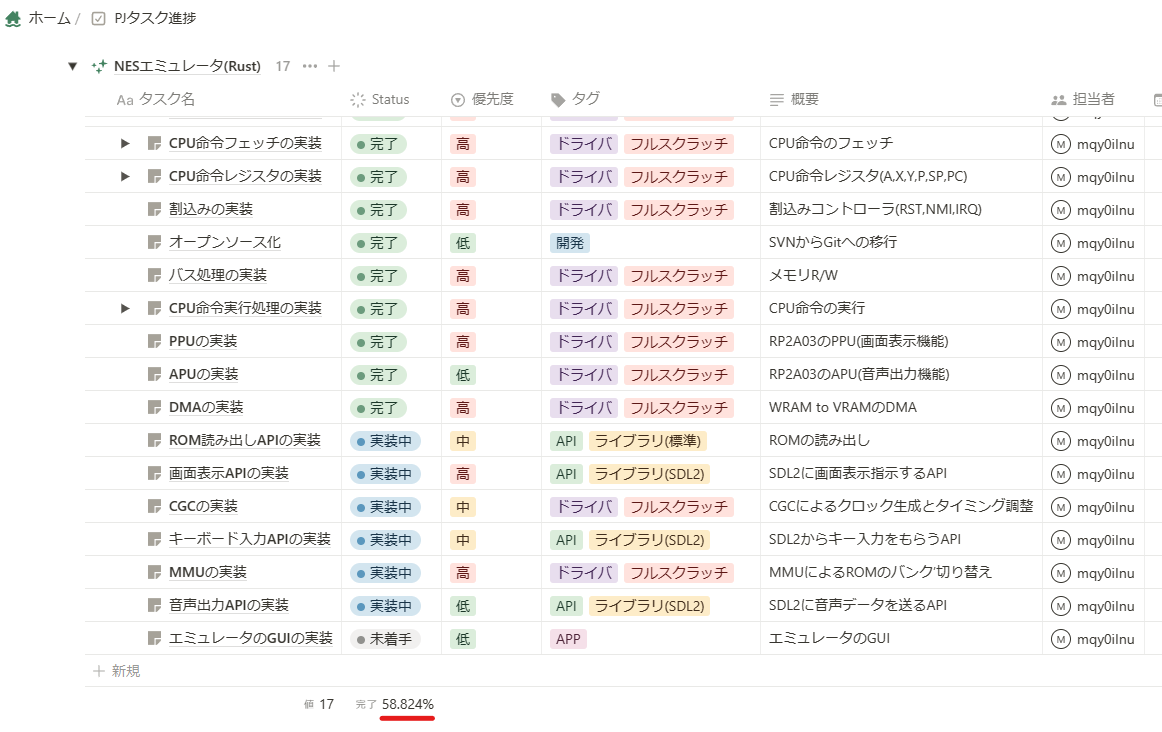
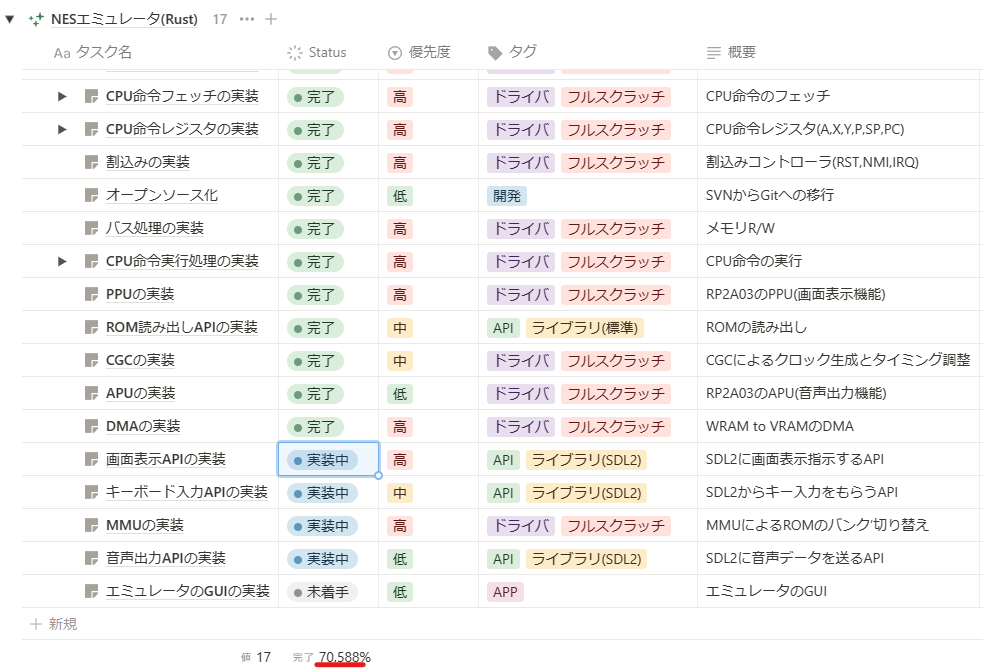
ROMローダー実装

diff --git a/src/cassette.rs b/src/cassette.rs
@@ -1,0 +1,136 @@
+use std::path::Path;
+use std::fs::File;
+use std::io::Read;
+
+#[derive(Debug, PartialEq)]
+#[allow(non_camel_case_types)]
+pub enum Mirroring {
+    VERTICAL,
+    HORIZONTAL,
+    FOUR_SCREEN,
+}
+
+pub const NES_TAG: [u8; 4] = [0x4E, 0x45, 0x53, 0x1A]; // ASCII "NES" + EOF(0x1A)
+pub const PRG_ROM_SIZE: usize = 16 * 1024;             // 16KB
+// pub const PRG_ROM_SIZE: usize = 32 * 1024;          // 32KB
+pub const CHR_ROM_SIZE: usize = 8 * 1024;              // 8KB
+
+pub struct Rom {
+    pub prg_rom: Vec<u8>,
+    pub chr_rom: Vec<u8>,
+    pub mapper: u8,
+    pub screen_mirroring: Mirroring,
+}
+
+impl Rom {
+    pub fn new(raw: &Vec<u8>) -> Result<Rom, String> {
+        let prg_rom_size = raw[4] as usize * PRG_ROM_SIZE;
+        let chr_rom_size = raw[5] as usize * CHR_ROM_SIZE;
+
+        // iNES Check
+        if &raw[0..4] != NES_TAG {
+            panic!("[ERR]: Not iNES Format ROM !!!");
+        }
+        // (DEBUG)
+        if raw.len() < 16 + prg_rom_size + chr_rom_size {
+            panic!("[ERR]: ROM size is larger than the Emu buffer size!!!");
+        }
+
+        let mapper = (raw[6] >> 0x04) | (raw[7] & 0xF0);
+        let four_screen_mirroring  = raw[6] & 0b1000 != 0;
+        let vertical_mirroring = raw[6] & 0b1 != 0;
+        let screen_mirroring =
+            match (four_screen_mirroring , vertical_mirroring) {
+                (true, _) => Mirroring::FOUR_SCREEN,
+                (false, true) => Mirroring::VERTICAL,
+                (false, false) => Mirroring::HORIZONTAL,
+                (_, _) => panic!("[ERR]: But Rom iNES !!!"),
+            };
+
+        let skip_trainer = raw[6] & 0b100 != 0;
+        let prg_rom_start = 16 + if skip_trainer { 512 } else { 0 };
+        let chr_rom_start = prg_rom_start + prg_rom_size;
+
+        // (DEBUG)iNES Header
+        let ines_header = &raw[0..16];
+        println!("[DEBUG]: ROM Read! iNES Header Dump!!!");
+        for byte in ines_header {
+            print!("[{:#04x}]", byte);
+        }
+        println!("\n");
+
+        Ok(Rom {
+            prg_rom: raw[prg_rom_start..(prg_rom_start + prg_rom_size)].to_vec(),
+            chr_rom: raw[chr_rom_start..(chr_rom_start + chr_rom_size)].to_vec(),
+            mapper: mapper,
+            screen_mirroring: screen_mirroring,
+        })
+    }
+
+    pub fn rom_clear() -> Self {
+        return Rom {
+            prg_rom: vec![0; PRG_ROM_SIZE],
+            chr_rom: vec![0; CHR_ROM_SIZE],
+            mapper: 0,
+            screen_mirroring: Mirroring::VERTICAL,
+        };
+    }
+}
+
+pub fn rom_loader(path :&str) -> Rom
+{
+    let mut f = File::open(path).expect("[ERR]: No File Found!!!");
+    let metadata = std::fs::metadata(path).expect("[ERR]: Unable Read Metadata");
+    let mut buffer = vec![0; metadata.len() as usize];
+    f.read(&mut buffer).expect("[ERR]: File Read Buffer OVF");
+    let rom = Rom::new(&buffer).expect("[ERR]: ROM Read ERROR");
+    rom
+}
+
+// ROM info Dump
+pub fn rom_info_dump(path:&str, rom :&Rom)
+{
+    let filename = Path::new(path)
+    .file_name()
+    .and_then(|name| name.to_str())
+    .unwrap_or("");
+
+    println!("*********** [NES ROM Info] ***********");
+    println!("NES File: {}", filename);
+    println!("PRG-ROM Size: {} bytes", rom.prg_rom.len());
+    println!("CHR-ROM Size: {} bytes", rom.chr_rom.len());
+    println!("Mapper: {}", rom.mapper);
+    println!("Screen Mirroring: {:X?}", rom.screen_mirroring);
+    println!("****************************************\n");
+}
+// ====================================== TEST ======================================
+mod rom_test {
+    use super::*;
+
+    // [Mapper 0]
+    const ROM_MAPPER_0_ROM_TBL: [&str; 13] = [
+        "test_rom/nes/mapper_0/1942.nes",
+        "test_rom/nes/mapper_0/donkeykong.nes",
+        "test_rom/nes/mapper_0/elevatoraction.nes",
+        "test_rom/nes/mapper_0/excitebike.nes",
+        "test_rom/nes/mapper_0/galaga.nes",
+        "test_rom/nes/mapper_0/galaxian.nes",
+        "test_rom/nes/mapper_0/ikki.nes",
+        "test_rom/nes/mapper_0/karateka.nes",
+        "test_rom/nes/mapper_0/mappy.nes",
+        "test_rom/nes/mapper_0/pacman.nes",
+        "test_rom/nes/mapper_0/super_mario_bros.nes",
+        "test_rom/nes/mapper_0/tower_of_druaga.nes",
+        "test_rom/nes/mapper_0/xevious.nes",
+    ];
+
+    #[test]
+    fn rom_test()
+    {
+        for path in ROM_MAPPER_0_ROM_TBL.iter() {
+            let rom = rom_loader(path);
+            rom_info_dump(&path, &rom);
+        }
+    }
+}
+// ==================================================================================

diff --git a/src/main.rs b/src/main.rs
@@ -2,6 +2,7 @@ mod mem;
 mod cpu;
 mod ppu;
 mod apu;
+mod cassette;
 use cpu::{cpu_reset, cpu_main};
 use ppu::{ppu_reset, ppu_main};
 use apu::{apu_reset, apu_main};

diff --git a/README.md b/README.md
@@ -22,7 +22,7 @@ This repository is making a NES emulator as a Rust study 😉😁😃.
     - (TBD)Emu Stop,Emu Rewinding, etc.
 
 # 📍PJ Status / PJ進捗状況📊
-## `PJ Status / 進捗率` ... `📊58.824%📊`  
+## `PJ Status / 進捗率` ... `📊70.588%📊`  
 `Sorry for Japanese 🙇`  
 
 <img src="dev/pj_status.png" alt="file">
@@ -46,10 +46,20 @@ This repository is making a NES emulator as a Rust study 😉😁😃.
 > 引用元(Reference From): https://forums.nesdev.org/viewtopic.php?t=20685&start=75
 
 ## 6502 & RP2A03 Reference🎓📘📖
-https://bugzmanov.github.io/nes_ebook/index.html  
 https://www.nesdev.org/wiki/NES_reference_guide  
 https://www.nesdev.org/obelisk-6502-guide/reference.html  
 https://pgate1.at-ninja.jp/NES_on_FPGA/  
+https://github.com/suzukiplan/mgp-fc
+
+## NES Reference🎓📘📖
+[MMU & Mapper]  
+http://pasofami.game.coocan.jp/FamTitleList.htm  
+
+[Emu]
+https://bugzmanov.github.io/nes_ebook/index.html  
+
+[iNES]
+https://www.nesdev.org/wiki/INES
 
 ## Rust Reference🎓📘📖
 https://doc.rust-jp.rs/book-ja/  
